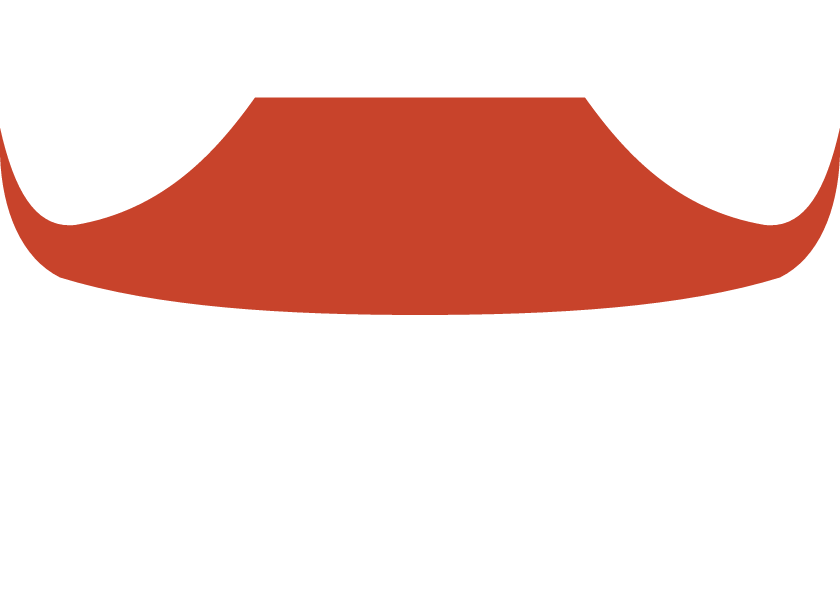
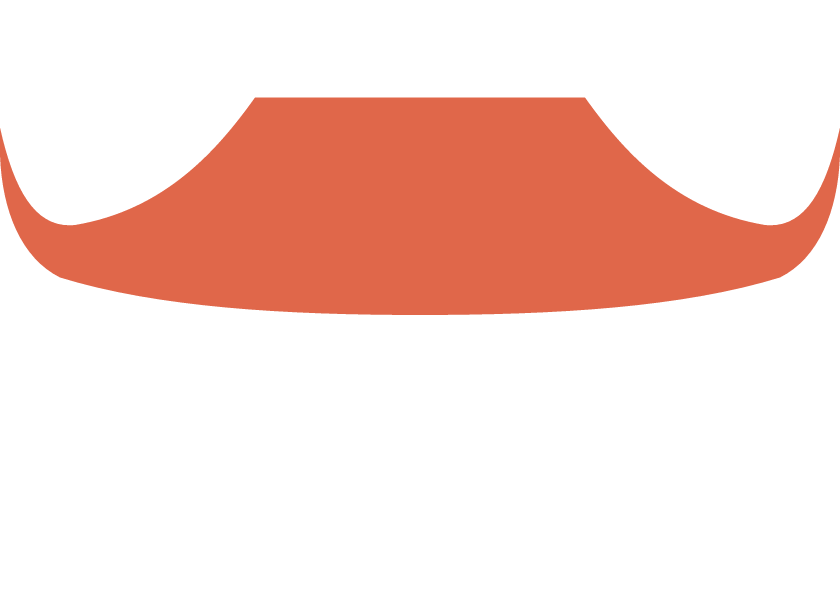
Show the app splash on navy so phone dark mode does not muddy it

Changed region(s): [[0.0, 0.15, 1.0, 0.54]]

diff --git a/apps/app-mobile/src/motion/BrandSplash.tsx b/apps/app-mobile/src/motion/BrandSplash.tsx
@@ -3,11 +3,10 @@ import { StatusBar } from 'expo-status-bar';
 import { useCallback, useEffect, useRef, useState } from 'react';
 import { Animated, Easing, StyleSheet, Text, View } from 'react-native';
 import { APP_CHANNEL } from '../config/env';
-import { BRAND } from '../intro/palette';
 import { DURATION, EASING } from './tokens';
 import { useReducedMotion } from './useReducedMotion';
 
-// Màn hình chờ trong app: nối liền với màn hình chờ gốc (cùng nền kem, cùng biểu tượng rộng 180 dp ở giữa) rồi chạy bản logo ngắn, dựng từ bốn lớp ảnh
+// Màn hình chờ trong app: nối liền với màn hình chờ gốc (cùng nền xanh than, cùng biểu tượng bản nền tối rộng 180 dp ở giữa) rồi chạy bản logo ngắn, dựng từ bốn lớp ảnh
 // cùng khung (nóc, mái, hai trang sách) xếp chồng, cùng nhịp với logo chuyển động của web:
 //   0–450 ms     hai trang sách mở ra từ gáy (phóng ngang từ 15% lên 100%, gáy nằm đúng giữa ảnh), hiện dần trong 200 ms đầu;
 //   250–850 ms   mái đình rơi xuống, vượt nhẹ rồi về chỗ;
@@ -16,7 +15,10 @@ import { useReducedMotion } from './useReducedMotion';
 // Biểu tượng không có chữ nên tên "DiViet" viết dưới biểu tượng (đặt tuyệt đối, biểu tượng vẫn nằm đúng chỗ của màn hình chờ gốc).
 // Phủ lên toàn app (app dựng ngay bên dưới) và tự gỡ khi mờ xong.
 
-export const SPLASH_BACKGROUND = '#F4ECDD';
+// Nền xanh than ở cả giao diện sáng và tối của điện thoại: nền kem bị giao diện tối của MIUI tự làm sẫm thành nâu, quyển sách xanh than chìm vào nền.
+export const SPLASH_BACKGROUND = '#292B38';
+/** Kem của logo, màu sách trên nền tối. */
+const NAME_COLOR = '#F4ECDD';
 // Khung 180 dp phải khớp imageWidth của expo-splash-screen trong app.json; trong ảnh màn hình chờ gốc (1024 px) biểu tượng rộng 946 px.
 // Android 12 trở lên chỉ hiện biểu tượng màn hình chờ gốc trong vùng 192 dp, nên để 180 dp cho mái đao không bị cụt.
 const FRAME_SIZE = 180;
@@ -117,7 +119,7 @@ export function BrandSplash({ ready, onDone }: { ready: boolean; onDone: () => v
       importantForAccessibility={ready ? 'no-hide-descendants' : 'auto'}
       style={[styles.overlay, { opacity: leave.interpolate({ inputRange: [0, 1], outputRange: [1, 0] }) }]}
     >
-      <StatusBar style="dark" />
+      <StatusBar style="light" />
       <View style={styles.frame} onLayout={hideNativeSplash}>
         <View style={styles.mark}>
           <Animated.Image source={PAGE_LEFT} accessible={false} resizeMode="contain" style={[styles.layer, { opacity: pageFade, transform: [{ scaleX: pageGrow }] }]} />
@@ -136,5 +138,5 @@ const styles = StyleSheet.create({
   frame: { width: FRAME_SIZE, height: FRAME_SIZE, alignItems: 'center', justifyContent: 'center' },
   mark: { width: MARK_WIDTH, height: MARK_HEIGHT },
   layer: { position: 'absolute', top: 0, left: 0, width: MARK_WIDTH, height: MARK_HEIGHT },
-  name: { position: 'absolute', top: (FRAME_SIZE + MARK_HEIGHT) / 2 + 20, left: -60, width: FRAME_SIZE + 120, textAlign: 'center', color: BRAND.navy, fontSize: 28, lineHeight: 34, fontWeight: '700' },
+  name: { position: 'absolute', top: (FRAME_SIZE + MARK_HEIGHT) / 2 + 20, left: -60, width: FRAME_SIZE + 120, textAlign: 'center', color: NAME_COLOR, fontSize: 28, lineHeight: 34, fontWeight: '700' },
 });

diff --git a/apps/app-mobile/app/_layout.tsx b/apps/app-mobile/app/_layout.tsx
@@ -11,7 +11,7 @@ import { AppProvider, useApp } from '../src/state/AppProvider';
 import { ThemeProvider, useTheme } from '../src/theme/ThemeProvider';
 
 // Gốc của app: bộ nhớ đệm truy vấn, vùng an toàn, trạng thái toàn app (nạp từ máy), bộ giao diện theo cấp học. Trong lúc nạp hiện màn hình chờ
-// (biểu tượng mái đình che sách mở trên nền kem, nối liền với màn hình chờ gốc); nạp xong thì màn hình chờ mờ dần 300 ms phía trên app.
+// (biểu tượng mái đình che sách mở trên nền xanh than, nối liền với màn hình chờ gốc); nạp xong thì màn hình chờ mờ dần 300 ms phía trên app.
 
 /** Báo cho gốc biết app đã nạp xong (nằm trong AppProvider nên chỉ được dựng sau khi trạng thái đã nạp). */
 function ReadySignal({ onReady }: { onReady: () => void }) {
